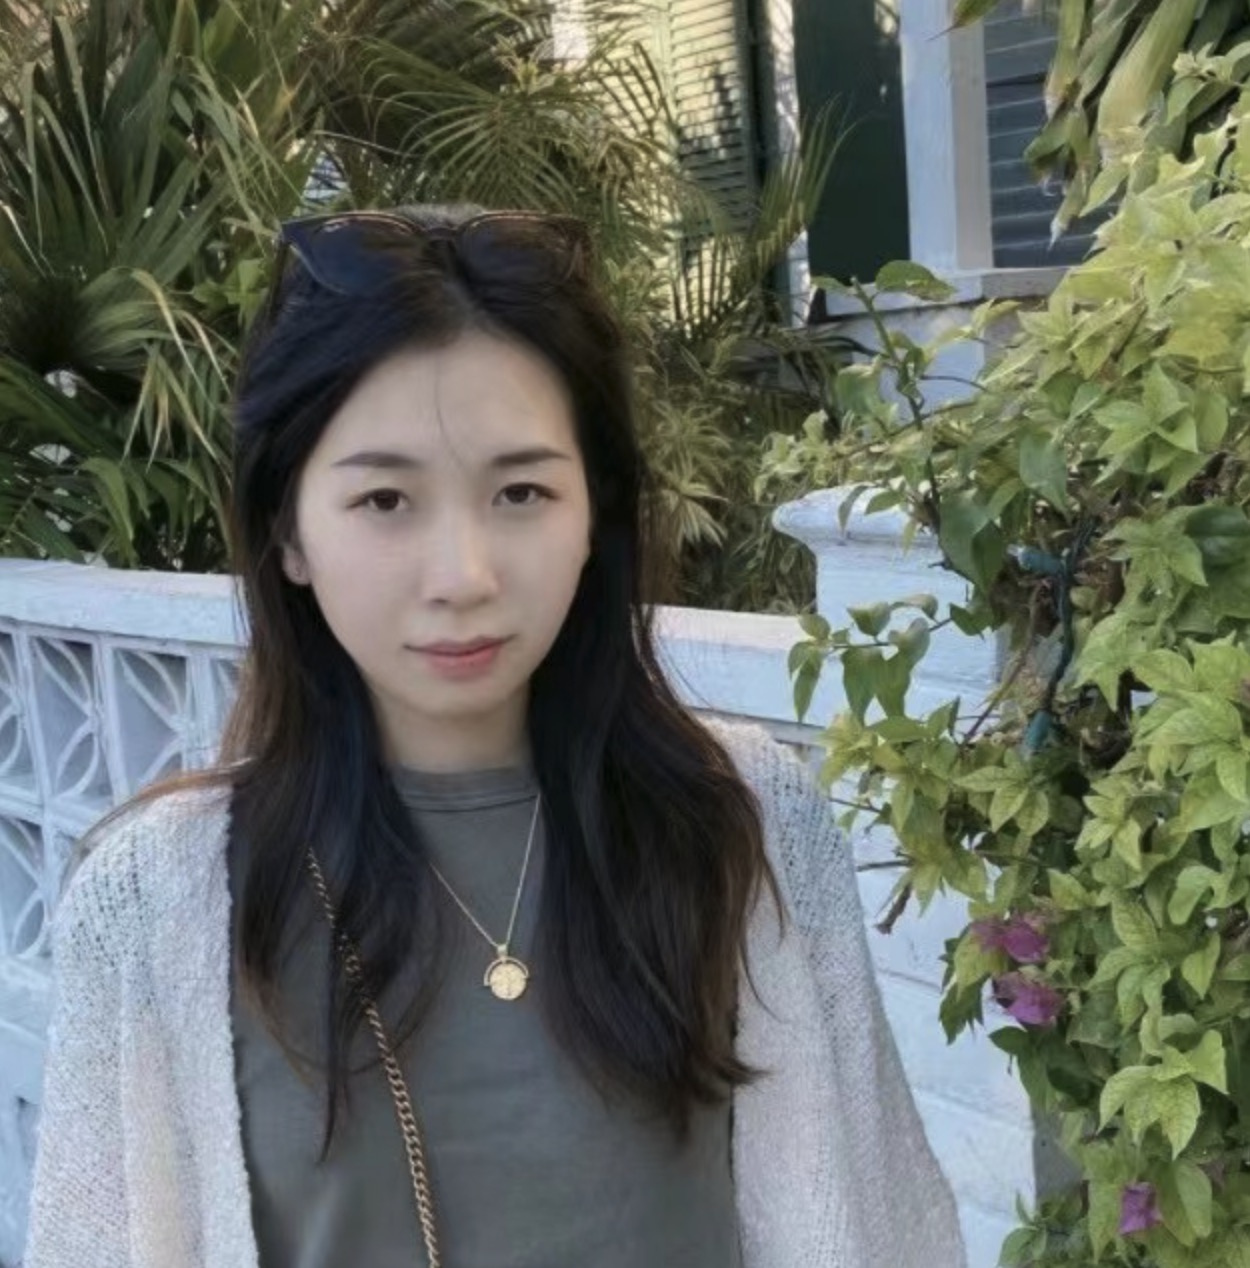
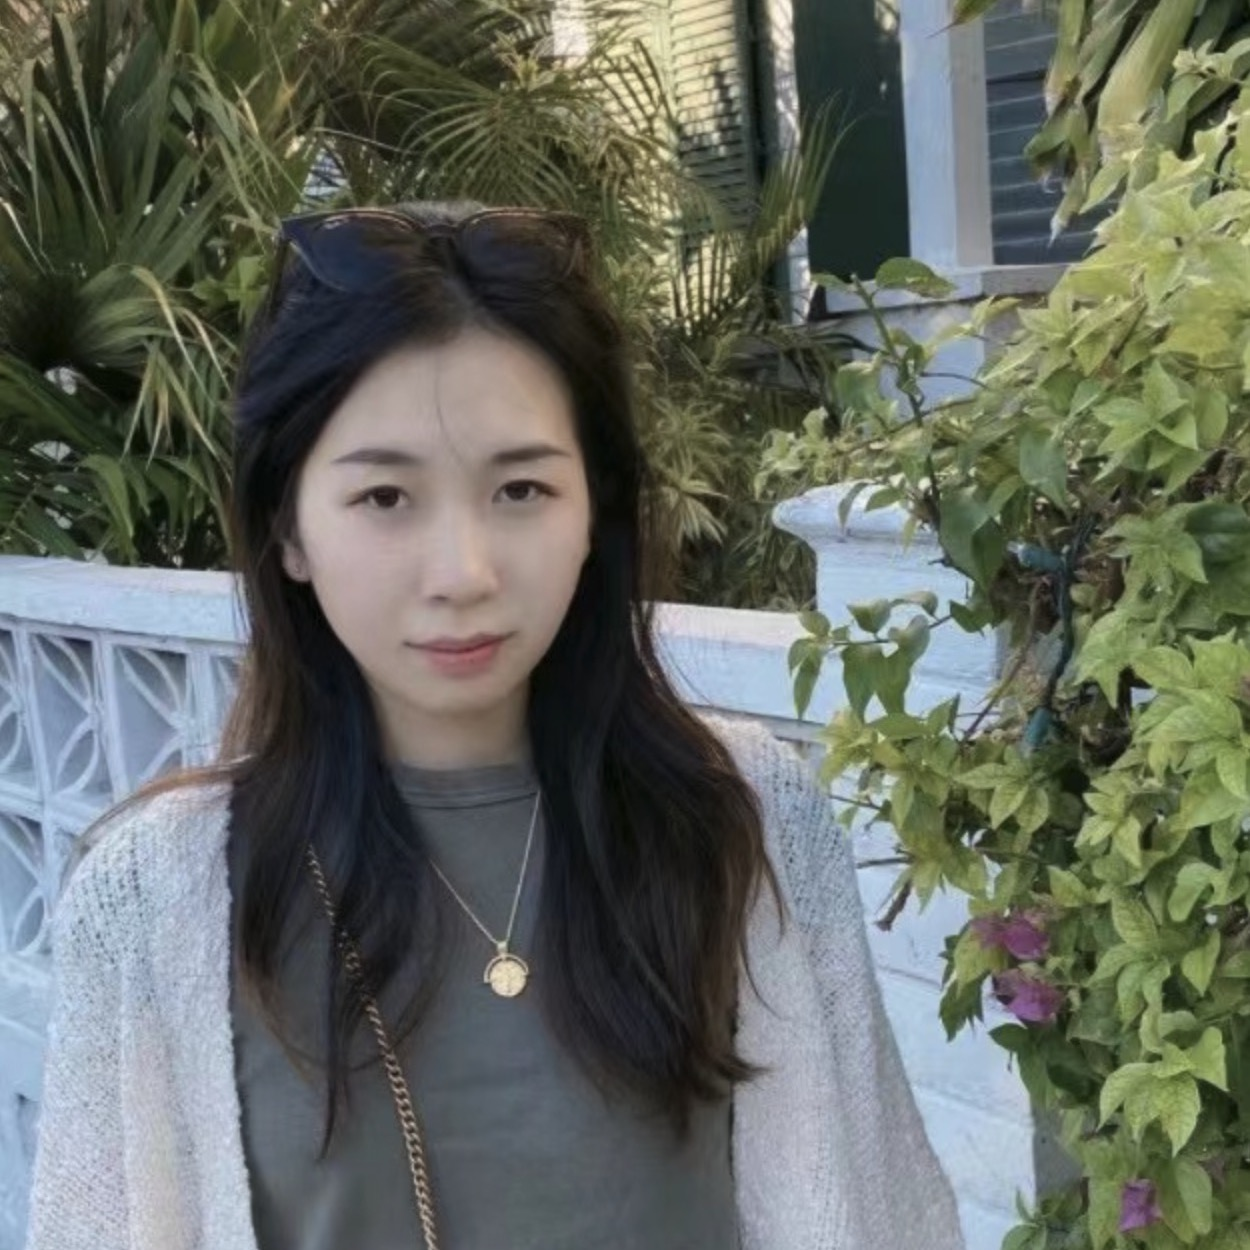
upload Jessica pfp and crop all images to be square

diff --git a/f2022/index.html b/f2022/index.html
@@ -481,7 +481,7 @@
     <div class="ta">
       Jessica Sun<br>
       (qiuhans)<br />
-      <img src="images/blank.png" />
+      <img src="images/jessicasun_cropped.jpg" />
   </div>
     <div class="ta">
       Julia Graham<br>
